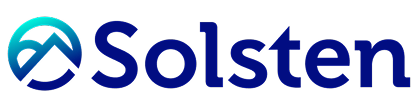
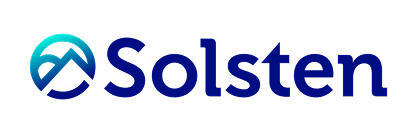
updated fig sizes

Changed region(s): [[0.0, 0.1389, 0.9952, 0.8611]]

diff --git a/_layouts/single.html b/_layouts/single.html
@@ -75,7 +75,7 @@ layout: default
           </div>
 
           <div style="display: flex; justify-content: center; max-width: 600px; margin-left: auto; margin-right: auto;">
-            <a href="/projects/p4"><img src="/images/cnrs.png" class="zoom-img" style="max-height: 60px; width: auto;"></a>
+            <a href="/projects/p4"><img src="/images/d.png" class="zoom-img" style="max-height: 60px; width: auto;"></a>
           </div>
         {% endif %}
 
